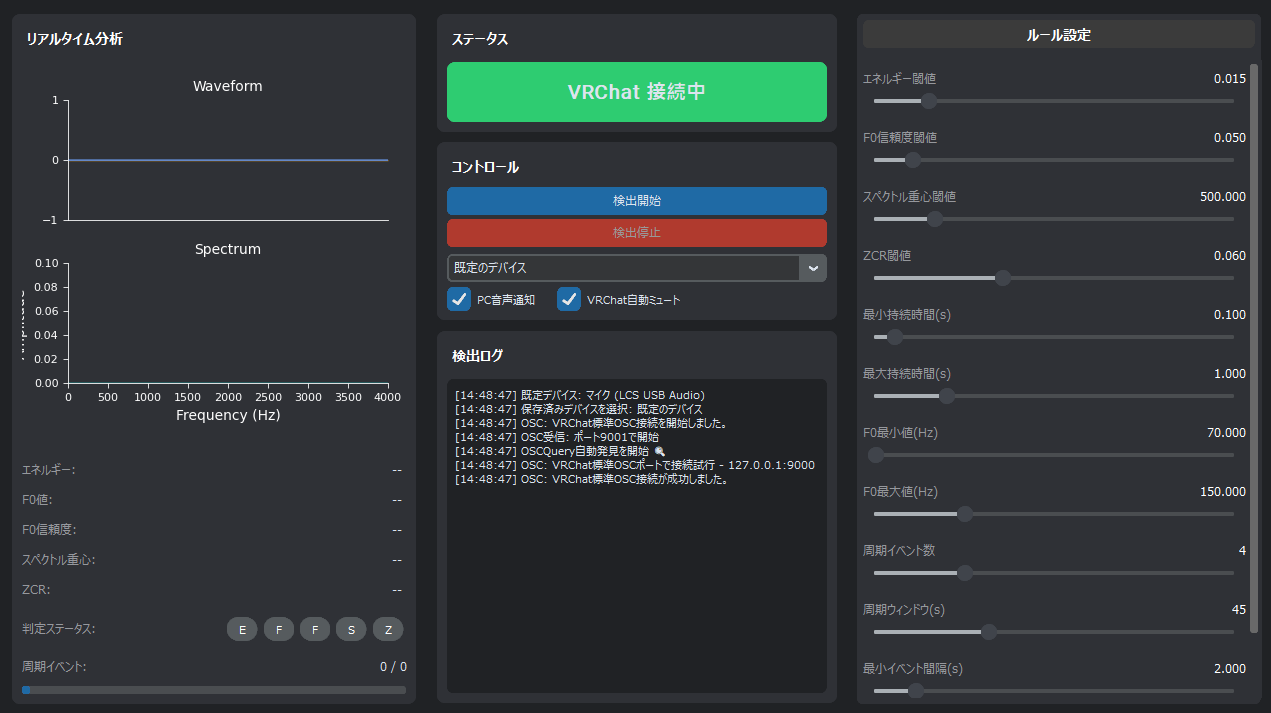
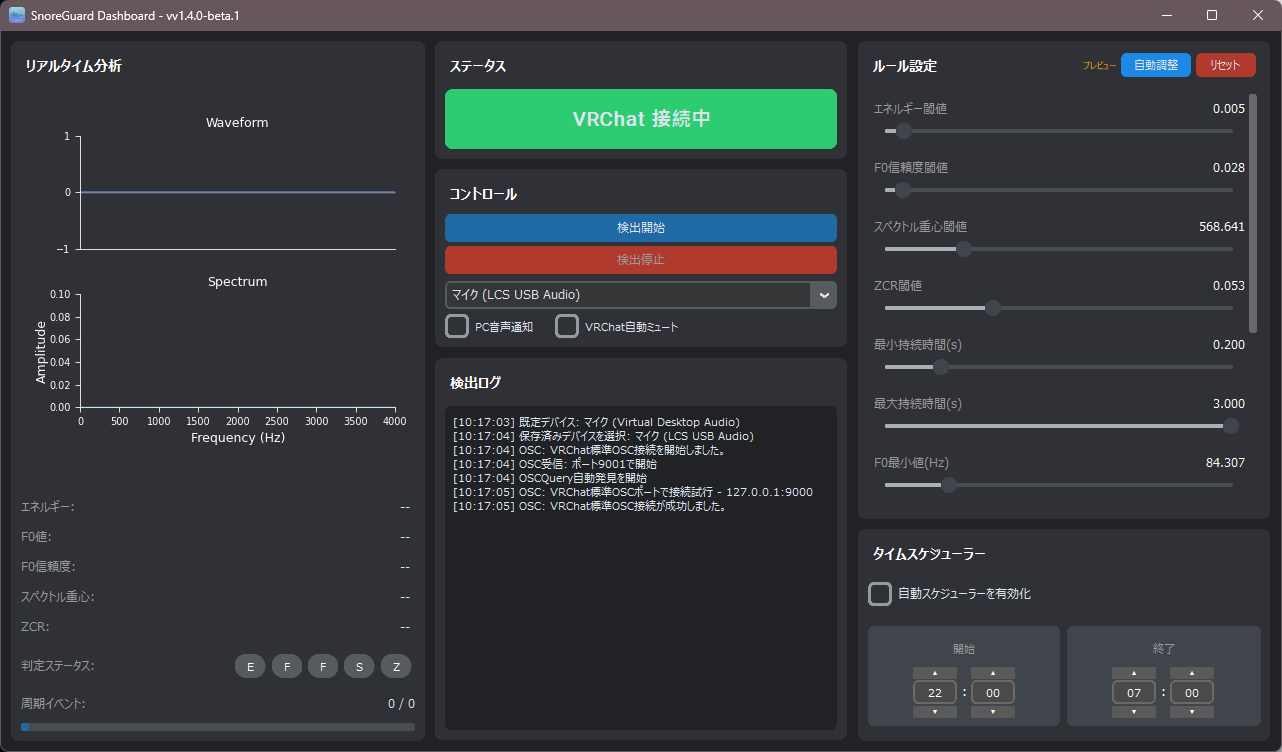
update: manual

diff --git a/docs/MANUAL.md b/docs/MANUAL.md
@@ -63,6 +63,8 @@ SnoreGuardの基本的な操作を行います。
 * **マイク選択**: 音声入力に使用するマイクデバイスを選択します。PCに接続されているマイクが一覧で表示されます。
 * **PC音声通知**: チェックを入れると、いびき検出時にPCからビープ音が鳴ります。
 * **VRChat自動ミュート**: チェックを入れると、いびき検出時にVRChat内のアバターを自動でミュートします。
+* **自動調整**: 現在の環境に合わせてルール設定を自動的に最適化します。詳細は**[5. 自動調整機能](#5-自動調整機能-preview)**をご覧ください。
+* **タイムスケジューラー**: 指定した時間帯のみ自動で検出を開始・停止できます。詳細は**[6. タイムスケジューラー](#6-タイムスケジューラー)**をご覧ください。
 
 ### ③ リアルタイム分析パネル
 
@@ -148,12 +150,64 @@ SnoreGuardの基本的な操作を行います。
 
 ---
 
+### ⑥ タイムスケジューラ機能
+
+指定した時間帯に自動でいびき検出を開始・停止する機能です。就寝時間に合わせて設定することで、手動操作なしで自動運用できます。
+
+#### 設定方法
+1. コントロールパネルで「タイムスケジューラー設定」を開きます。
+2. **有効化**: チェックを入れてスケジューラーを有効にします。
+3. **開始時刻**: 検出を自動開始する時刻を設定します（例：22:00）。
+4. **終了時刻**: 検出を自動停止する時刻を設定します（例：06:00）。
+5. 「適用」ボタンで設定を保存します。
+
+#### 動作例
+- 開始時刻 22:00、終了時刻 06:00 の場合：
+  - 毎日22:00になると自動で検出開始
+  - 翌日06:00になると自動で検出停止
+  - 日跨ぎの設定にも対応
+
+#### 注意事項
+- スケジューラーは終了時刻まで継続して動作します。
+- PCの電源が入っており、アプリが起動している必要があります。
+- 手動での開始・停止も可能で、スケジューラーと並行して動作します。
+
+### ⑦ 自動調整機能 
+
+v1.4.0で追加された実験的機能です。あなたの環境に合わせてルール設定を自動的に最適化します。
+
+#### 使用方法
+1. 検出を停止した状態でコントロールパネルの「自動調整」ボタンをクリックします。
+2. キャリブレーションモーダルが開きます。
+
+<p align="center">
+  <img src="./image/auto-calib.png" alt="UI Layout" width="700"/>
+</p>
+
+1. 「開始」ボタンを押すと、約60秒間の音声収集が始まります。
+2. 普通に話したり、軽い咳をしたり、いびきのような音を出してください。
+3. 収集完了後、自動的に最適な設定が算出され、アプリに適用されます。
+
+#### 注意事項
+- プレビュー機能のため、結果が期待通りでない場合があります。
+- 自動調整後も手動でのパラメータ調整は可能です。
+- 環境が変わった場合（マイクを変更した、部屋を変えたなど）は、再度実行することを推奨します。
+
 ## 3. VRChat連携について
 
 SnoreGuardは、VRChatが標準でサポートしている**OSC (Open Sound Control)** 機能を利用して、あなたのアバターをミュートします。
 
-* **VRChat側の設定**: VRChatのAction Menuから `Options` > `OSC` を開き、`OSC`が`Enabled`になっていることを確認してください。
-* **仕組み**: SnoreGuardがいびきを検出すると、`127.0.0.1`（ローカルホスト）のポート`9000`に対して、VRChatの`/input/Voice`パラメータを操作するOSCメッセージを送信します。これにより、マイクのミュート状態が切り替わります。
+### VRChat側の設定
+
+VRChatのAction Menuから `Options` > `OSC` を開き、`OSC`が`Enabled`になっていることを確認してください。
+
+### 基本的な仕組み
+
+SnoreGuardがいびきを検出すると、`127.0.0.1`（ローカルホスト）のポート`9000`に対して、VRChatの`/input/Voice`パラメータを操作するOSCメッセージを送信します。これにより、マイクのミュート状態が切り替わります。
+
+<p align="center">
+  <img src="./image/Expression.png" alt="UI Layout" width="700"/>
+</p>
 
 ## 4. トラブルシューティング
 
